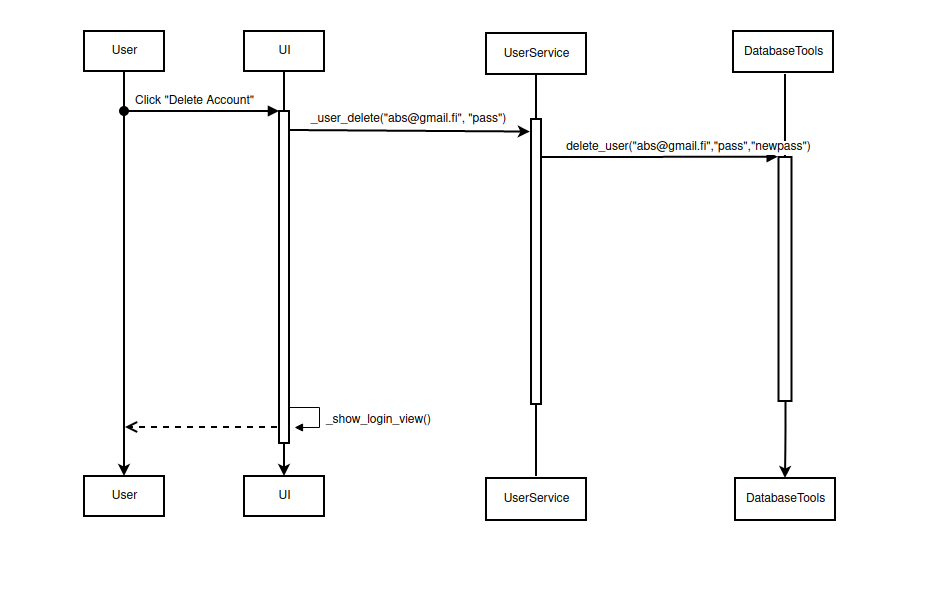
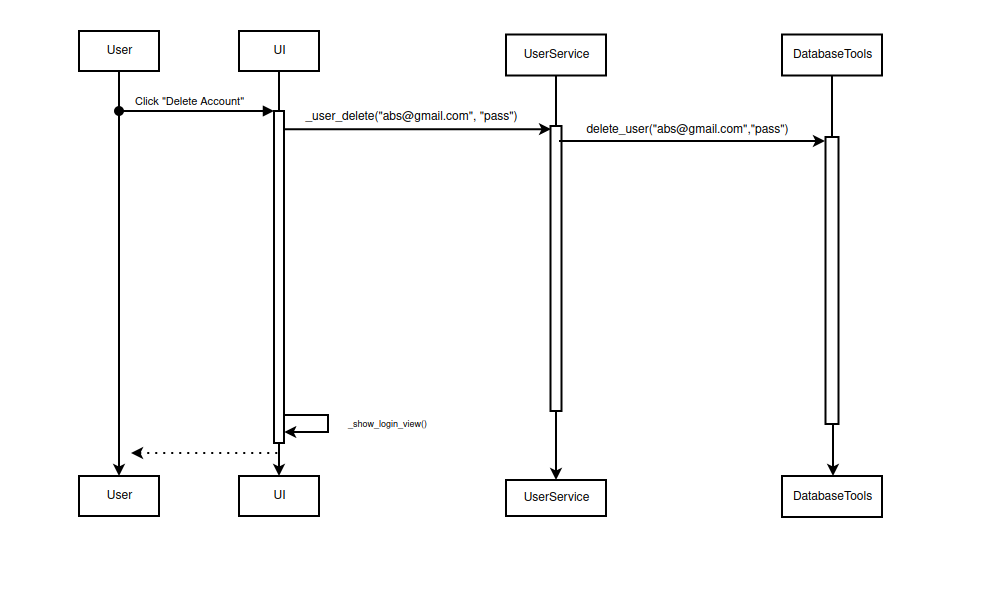
Päivitetty dokumentaatio

Changed region(s): [[0.0614, 0.0304, 0.8602, 0.8803], [0.768, 0.7589, 0.8909, 0.8803], [0.768, 0.0304, 0.8909, 0.1518]]

diff --git a/dokumentaatio/arkkitehtuuri.md b/dokumentaatio/arkkitehtuuri.md
@@ -95,7 +95,9 @@ Calculator-näkymässä valinta vaihtoehtoista riippuen kontrolli siirtyy eri ta
 <img src="https://github.com/Neroniuoso/ot-harjoitustyo/blob/master/dokumentaatio/kuvat/Calculator.png" width=760>
 
 Tässä painamalla Calculator kutsutaan `UI`-luokan _show_calculator_view metodia, joka vaihtaa näkymän laskimen näkymäksi.
-Tämän jälkeen valitsemalla OptionMenu:sta vaihtoehtoisen tavan laskea BMR, eli tässä tapauksessa arvioimalla lihasmassan, niin saadaan `Calculator`-olion lean_body_mass_estimate metodin avulla arvioitua lihasmassa. lean_body_mass_estimate metodi kutsuu `DatabaseTools`-olion metodia fetch_user ja fetch_weight, jolla saadaan paino-, pituus- ja sukupuoliparametrit lean_body_mass_E
+Tämän jälkeen valitsemalla OptionMenu:sta vaihtoehtoisen tavan laskea BMR, eli tässä tapauksessa arvioimalla lihasmassan, niin saadaan `Calculator`-olion lean_body_mass_estimate metodin avulla arvioitua lihasmassa. Ennen tätä DatabaseTools-olion metodeja fetch_user_info ja fetch_weight kutsumalla lean_body_mass_estimate saa paino-, pituus- ja sukupuoliparametrit, joiden perusteella lihasmassa arvioidaan.
+Lihasmassa syötetään parametrina `Calculator`-olion bmr_count metodille, joka palauttaa bmr:n liukulukuarvona. Jos käyttäjä haluaa vielä laskea TDEE:n, niin painikkeen "Continue to TDEE Calculation" painaminen käynnistää total_daily_energy_expenditure metodin kutsun, joka ottaa parametriksi bmr:n ja aktiivisuustason. Tämän jälkeen alustetaan laskin näkymä `UI`-olion _show_calculator_view metodilla.
+Painike "Go Back" siirtää meidät takaisin päänäkymään metodilla _show_user_view().  
 
 ### Salasanan vaihtaminen ja käyttäjän poistaminen
 
@@ -103,17 +105,26 @@ Käyttäjänäkymässä painamalla "Change password" päästään vaihtamaan sal
 
 <img src="https://github.com/Neroniuoso/ot-harjoitustyo/blob/master/dokumentaatio/kuvat/Change_password.png" width=760>
 
+Painamalla "Change Password" tapahtumakäsittelijän seurauksena `UserService`-olion metodi Change_password kutsutaan, joka ottaa parametriksi sähköpostin, vanhan salasanan ja käyttäjän syöttämän uuden salasanan sekä varmennuksena uuden salasanan uudelleen kirjoitettuna. Jos salasanat vastaavat toisiaan eivätkä ole tyhjä merkkijono, niin kutsumalla DatabaseTools-olion metodi update_password päivitetään salasaana. update_password metodi ottaa parametrikseen sähköpostin, vanhan salasanan ja uuden salasanan. 
+Kun salasana on päivitetty, niin palautetaan `UI`-oliolle True-totuusarvo, jonka perusteella käyttäjälle ilmoitetaan salasanan päivittyneen. Tämän jälkeen ohjataan käyttäjä takaisin päänäkymään _show_user_view metodilla.
 
 Käyttäjänäkymässä on myös painike käyttäjän poistamiseen "Delete Account", jota painamalla kontrolli siirtyy seuraavasti.
 
 <img src="https://github.com/Neroniuoso/ot-harjoitustyo/blob/master/dokumentaatio/kuvat/delete_account.png" width=760>
 
+Painike "Delete Account" kutsuu _user_delete metodia, joka kutsuu DatabaseTool-olin delete_user metodia.sekä _user_delete että delete_user metodi ottaa parametriksi sähköpostin ja salasanan. Tämän jälkeen käyttäjä ohjataan kirjautumisnäkymään _show_login_view metodilla.
+
 ### Muut toiminnallisuudet
+
+Painon lisääminen tapahtuu seuraavan kaavion mukaisesti.
 
 <img src="https://github.com/Neroniuoso/ot-harjoitustyo/blob/master/dokumentaatio/kuvat/Add_weight.png" width=760>
 
+Ja painon poistaminen tapahtuu seuraavasti
+
 <img src="https://github.com/Neroniuoso/ot-harjoitustyo/blob/master/dokumentaatio/kuvat/delete_weight.png" width=760>
 
+Tämä kaavio näyttää, miten "Track" painikkeen siirtää kontrollia.
 
 <img src="https://github.com/Neroniuoso/ot-harjoitustyo/blob/master/dokumentaatio/kuvat/mathplotframe.png" width=760>
 

diff --git a/dokumentaatio/tuntikirjanpito.md b/dokumentaatio/tuntikirjanpito.md
@@ -20,4 +20,5 @@
 | 23.12. | 3    | Tein toisenlaisen tavan toteuttaa aineiden tallennusta, ja loin niihin toiminnallisuudet
 | 23.12. | 6    | Puhdistin koodia lintin avulla, korjasin joitakin loogisia virheitä ja muutin toteutustapoja.
 | 25.12. | 4    | Kaikki kaaviot on tehty sekä muutama testi että koodin korjaus.
-| yht    | 75.5
+| 26.12. | 3    | Dokumentaation tekeminen
+| yht    | 78.5
